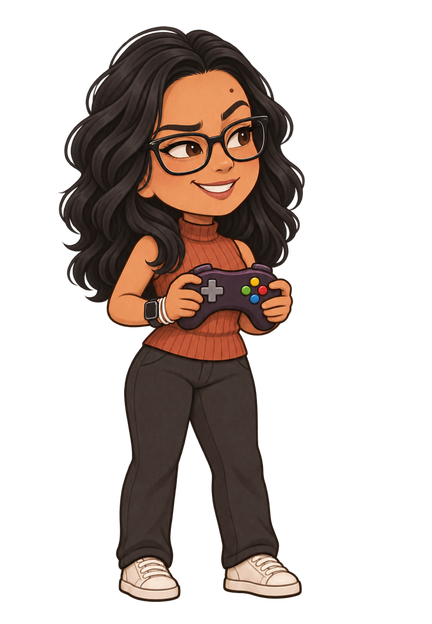
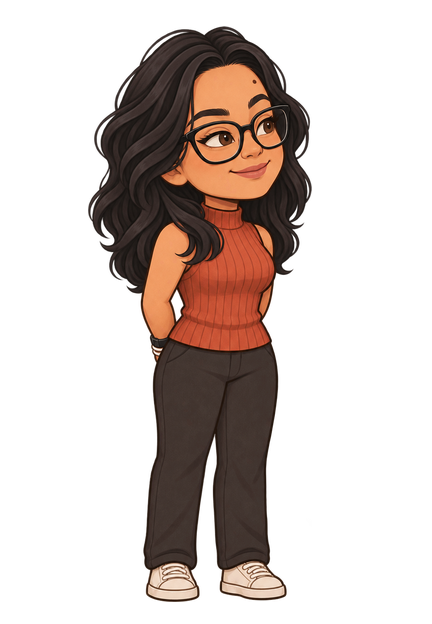
Refine anticipation poses and luggage continuity (#5)

Changed region(s): [[0.1204, 0.0304, 0.7222, 0.9744], [0.5116, 0.609, 0.5417, 0.6394]]

diff --git a/assets/characters/README.md b/assets/characters/README.md
@@ -12,8 +12,8 @@ Jede Stufe beginnt beim Erreichen ihrer Schwelle und läuft bis zum Beginn der n
 | 4 | 14 Tage | Erstes Lächeln | `03` |
 | 5 | 10 Tage | Ein Kuss durchs Handy | `05-handykuss` |
 | 6 | 7 Tage | Vorfreude | `04` |
-| 7 | 4 Tage | Die Zeit gemeinsam vertreiben | `07-controller` |
-| 8 | 2 Tage | Platz für zwei | `08-platz-fuer-zwei` |
+| 7 | 4 Tage | Vorfreude genießen | `07-controller` |
+| 8 | 2 Tage | Es kribbelt schon | `08-platz-fuer-zwei` |
 | 9 | 24 Stunden | Kaum noch auszuhalten | `05` |
 | 10 | 16 Stunden | Koffer packen | `10-kofferpacken` |
 | 11 | 8 Stunden | Gleich geht’s los | `11-aufbruch` |
@@ -30,10 +30,10 @@ Die Paarpose wird mit `(216, 602)` am Treffpunkt ausgerichtet. Dort liegen die F
 
 [Georgia G3-A](references/georgia.png) und [Tobias T1-A](references/tobias.png) dienten dem integrierten ImageGen in jeder neuen Anfrage als direkte visuelle Referenzen. Eine vorhandene Einzelpose gab jeweils Zeichenstil, Proportionen und Blickrichtung vor. Die Prompts verlangten fein konturierte Ganzkörperzeichnungen mit derselben Kleidung und denselben Accessoires, Lichteinfall von links oben, echte Transparenz, vollständig sichtbare Requisiten und schriftfreie Oberflächen. Die Zeichnungen wurden anschließend im PNG-Rahmen am Fußpunkt ausgerichtet.
 
-- **Stufe 3** · Georgia drückt ein Foto von Tobias ans Herz. Tobias betrachtet Georgias Foto und streicht mit dem Daumen über den Rand. Beide Fotos zeigen die gezeichneten Figuren.
-- **Stufe 5** · Georgia schickt einen Handkuss in die Handykamera. Tobias schaut errötend aufs Display.
-- **Stufe 7** · Beide halten einen Controller. Georgia grinst siegessicher, Tobias beugt sich vor Konzentration nach vorn.
-- **Stufe 8** · Georgia stellt eine grüne neben eine cremefarbene Tasse. Tobias vergleicht zwei Filmhüllen mit einer Rakete und einer Berglandschaft als Bildmotive.
-- **Stufe 10** · Georgia schüttelt ein zweites Kopfkissen links vor ihrem Körper auf. Tobias drückt den letzten gefalteten Pulli in den offenen Rollkoffer zwischen seinen Schuhen.
+- **Stufe 3** · Georgia drückt ein Foto von Tobias ans Herz. Sie trägt die Smartwatch, das andere Handgelenk ist frei. Tobias betrachtet Georgias Foto und streicht mit dem Daumen über den Rand. Beide Fotos zeigen die gezeichneten Figuren.
+- **Stufe 5** · Georgia schickt einen Handkuss in die Handykamera. Tobias schaut errötend aufs Display. Seine blauen Augen bleiben beim gesenkten Blick rund und gut sichtbar wie in der Figurenreferenz.
+- **Stufe 7** · Georgia neigt den Kopf, hält die Hände locker hinter dem Rücken und lächelt versonnen. Tobias steht mit einer Hand in der Hosentasche da und grinst zufrieden. Beide sind ohne Requisiten dargestellt.
+- **Stufe 8** · Georgia legt mit leuchtenden Augen die Hände unter dem Kinn zusammen. Tobias verlagert sein Gewicht leicht nach vorn, hebt die Brauen und strahlt. Körperhaltung und Mimik zeigen etwas mehr Spannung als in Stufe 7. Beide sind ohne Requisiten dargestellt.
+- **Stufe 10** · Georgia schüttelt ein zweites Kopfkissen links vor ihrem Körper auf. Tobias drückt einen weißen gefalteten Pulli in den offenen beigen Rollkoffer zwischen seinen Schuhen.
 - **Stufe 11** · Georgia schaut auf ihre Armbanduhr und hebt die Fersen. Tobias bindet im Stehen einen Schuh und trägt die Jacke über dem Arm.
-- **Stufe 12** · Georgia hält lächelnd Ausschau und beschattet mit der Hand ihre Augen. Tobias zieht den geschlossenen ockerfarbenen Rollkoffer im Schritt hinter sich her, die offene Jacke weht nach hinten.
+- **Stufe 12** · Georgia hält lächelnd Ausschau und beschattet mit der Hand ihre Augen. Tobias zieht denselben beigen Rollkoffer aus Stufe 10 geschlossen hinter sich her. Die offene Jacke weht im Schritt nach hinten.
